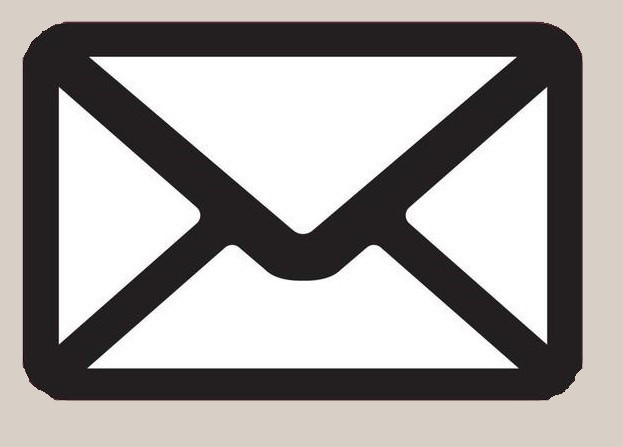
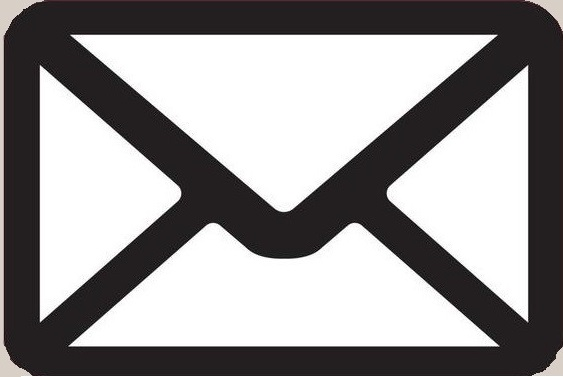
adicionei a rede social Tiktok

diff --git a/index.html b/index.html
@@ -41,6 +41,11 @@
                         <img class="foto-icones" src="imagens/whatsLogoW.jpg" alt="WhatsApp">
                     </a>
 
+                    <!-- Link para o TikTok -->
+                    <a href="https://www.tiktok.com/@USUARIO_DELA_AQUI" target="_blank" title="TikTok">
+                        <img class="foto-icones" src="imagens/tikTokW.png" alt="TikTok">
+                    </a>
+
                     <!-- Link para o Formulário de Contato -->
                     <a href="falecomigo.html" target="_self" title="Enviar Mensagem">
                         <img class="foto-icones" src="imagens/mensagemW.jpg" alt="Formulário de Contato"> 
